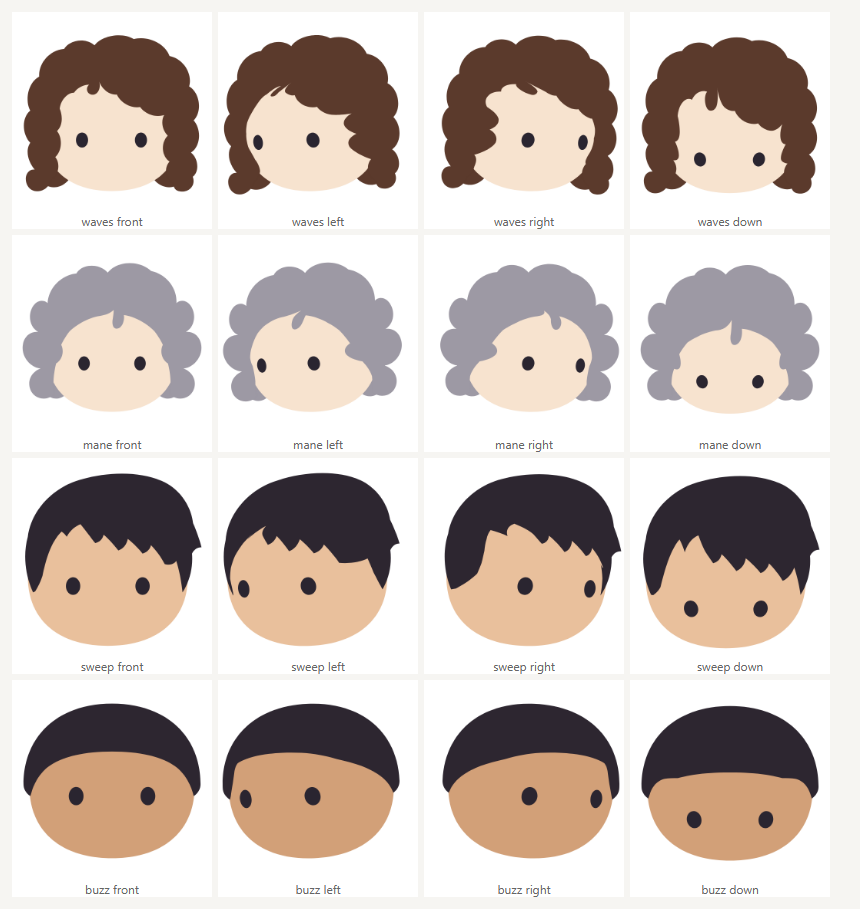
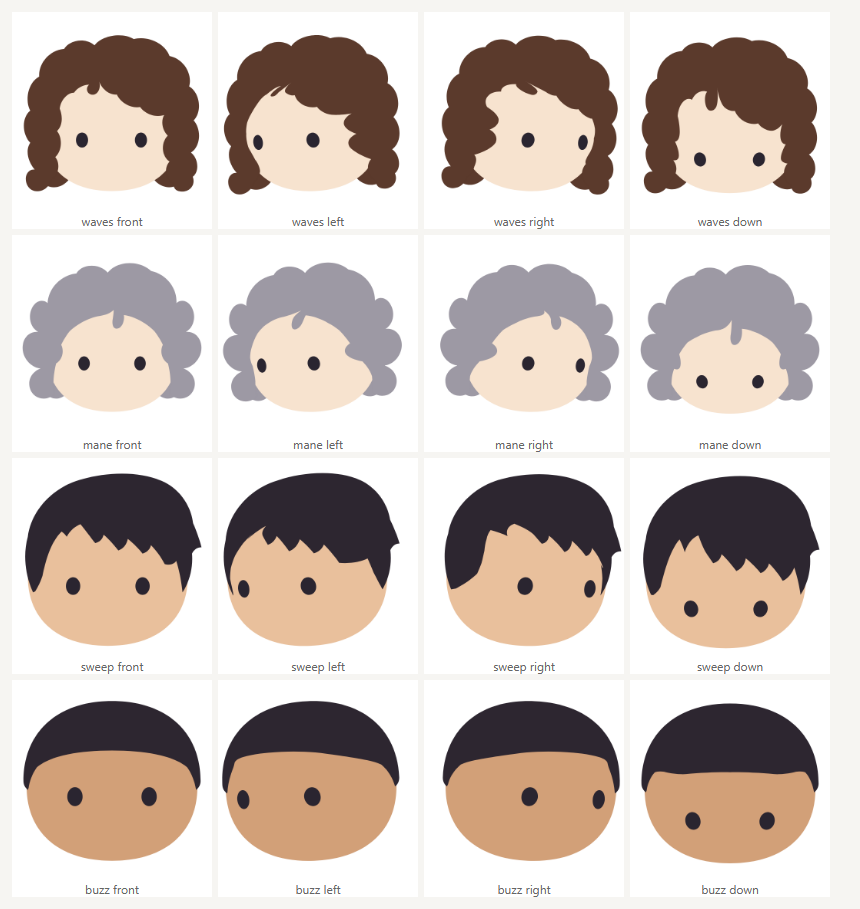
Thin the buzz cut's sides
The hair down each side was too thick. The rim now sits close to the head
there and the hairline runs nearer the head's edge, so the cap is thin at the
sides and keeps its thickness over the crown.

diff --git a/src/parts/hair/buzz.ts b/src/parts/hair/buzz.ts
@@ -1,8 +1,8 @@
 import { face, type Part, Z } from "../../part.ts";
 
-/** A buzz cut: hair clipped short all over, so it is a cap that follows the head, a little
- * thicker over the crown than at the sides. It comes well down the brow, and its hairline is
- * one smooth arch from sideburn to sideburn. */
+/** A buzz cut: hair clipped short all over, so it is a cap that follows the head, thicker over
+ * the crown and thin down the sides. It comes well down the brow, and its hairline is one
+ * smooth arch from sideburn to sideburn. */
 export const buzz: Part = {
   id: "buzz",
   slot: "hair",
@@ -13,14 +13,15 @@ export const buzz: Part = {
       shapes: [
         {
           d: [
-            // The rim: outside the head, from one sideburn over the crown to the other.
-            "M12.4 60C10.2 58.5 9.3 56.5 9.3 54.5C9.3 32.5 25 17.5 50 17.5C75 17.5 90.7 32.5 90.7 54.5C90.7 56.5 89.8 58.5 87.6 60",
+            // The rim: close to the head at the sides and higher over the crown, from one
+            // sideburn to the other.
+            "M12.6 57C11.2 56 10.6 54.5 10.6 53C10.6 31.5 25.5 17.5 50 17.5C74.5 17.5 89.4 31.5 89.4 53C89.4 54.5 88.8 56 87.4 57",
             // The hairline: one arch, up the right sideburn, across the brow, and down the
             // left.
             face(
-              "C86.4 55 84 50.5 80 47C73 41.5 62 39.5 50 39.5C38 39.5 27 41.5 20 47C16 50.5 13.8 55 12.9 58.5",
+              "C86.8 53.5 85.6 50 83.5 47C77 41.5 64 39.5 50 39.5C36 39.5 23 41.5 16.5 47C14.4 50 13.2 53.5 12.9 56",
             ),
-            "L12.4 60Z",
+            "L12.6 57Z",
           ],
           fill: "0",
         },
